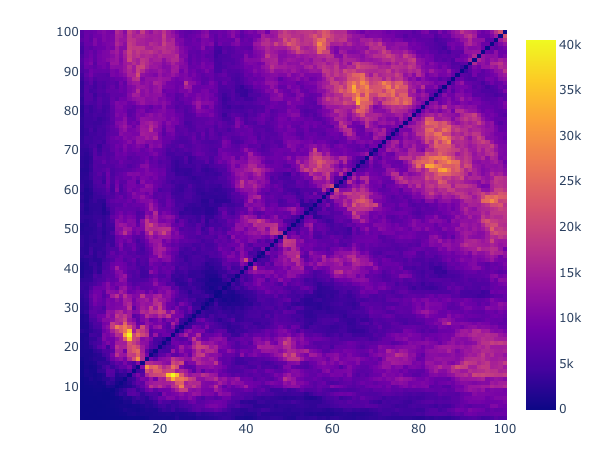
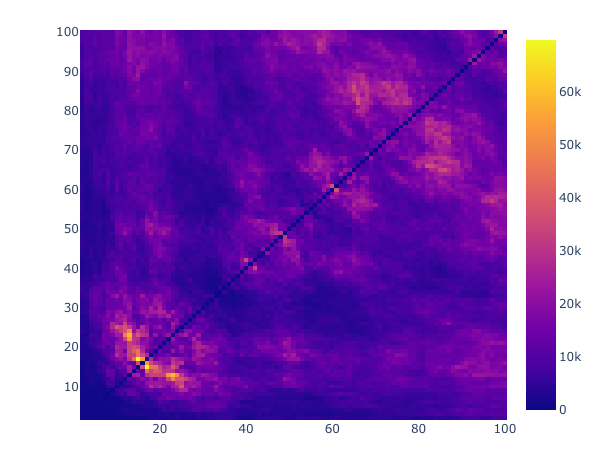
Update README

diff --git a/README.md b/README.md
@@ -13,9 +13,8 @@ import yfinance as yf
 # Prepare data
 msft = yf.Ticker("MSFT")
 history = msft.history(period="max")
-ohlcv = vbt.ohlcv.OHLCV.from_df(history)
+ohlcv = vbt.OHLCV.from_df(history)
 investment = 100 # $
-fees = 0.001 # %
 
 # Create window combinations
 windows = np.arange(2, 101)
@@ -24,10 +23,10 @@ fast_idxs, slow_idxs = np.asarray(list(comb)).transpose()
 fast_windows, slow_windows = windows[fast_idxs], windows[slow_idxs]
 
 # Calculate the performance of the strategy
-dmac = vbt.strategy.DMAC(ohlcv.open, fast_windows, slow_windows)
+dmac = vbt.DMAC(ohlcv.open, fast_windows, slow_windows)
 entries, exits = dmac.crossover_signals()
-positions = vbt.positions.Positions.from_signals(entries, exits)
-portfolio = vbt.portfolio.Portfolio(ohlcv.open, positions, investment=investment, fees=fees)
+positions = vbt.Positions.from_signals(entries, exits)
+portfolio = vbt.Portfolio(ohlcv.open, positions, investment=investment)
 tnp = portfolio.total_net_profit
 
 # Plot heatmap
@@ -35,12 +34,12 @@ tnp_matrix = np.empty((len(windows), len(windows)))
 tnp_matrix[fast_idxs, slow_idxs] = tnp
 tnp_matrix[slow_idxs, fast_idxs] = tnp # symmetry
 
-vbt.utils.widgets.Heatmap(windows, windows, data=tnp_matrix, figsize=(600, 450)).show_png()
+vbt.Heatmap(windows, windows, data=tnp_matrix, figsize=(600, 450)).show_png()
 ```
 
 ![msft_heatmap.png](msft_heatmap.png)
 
-And here is a snippet for testing different fees on the same strategy interactively:
+The only problem with this image: we didn't include fees. Let's fix that, interactively:
 
 ```python
 import ipywidgets as widgets
